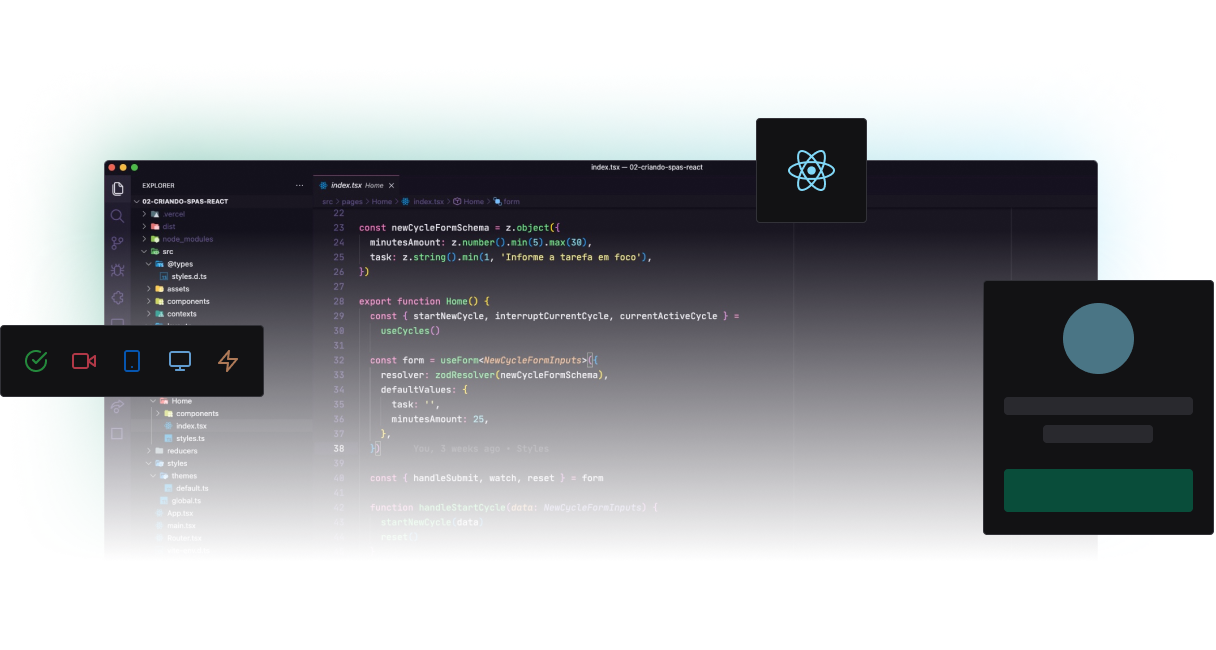
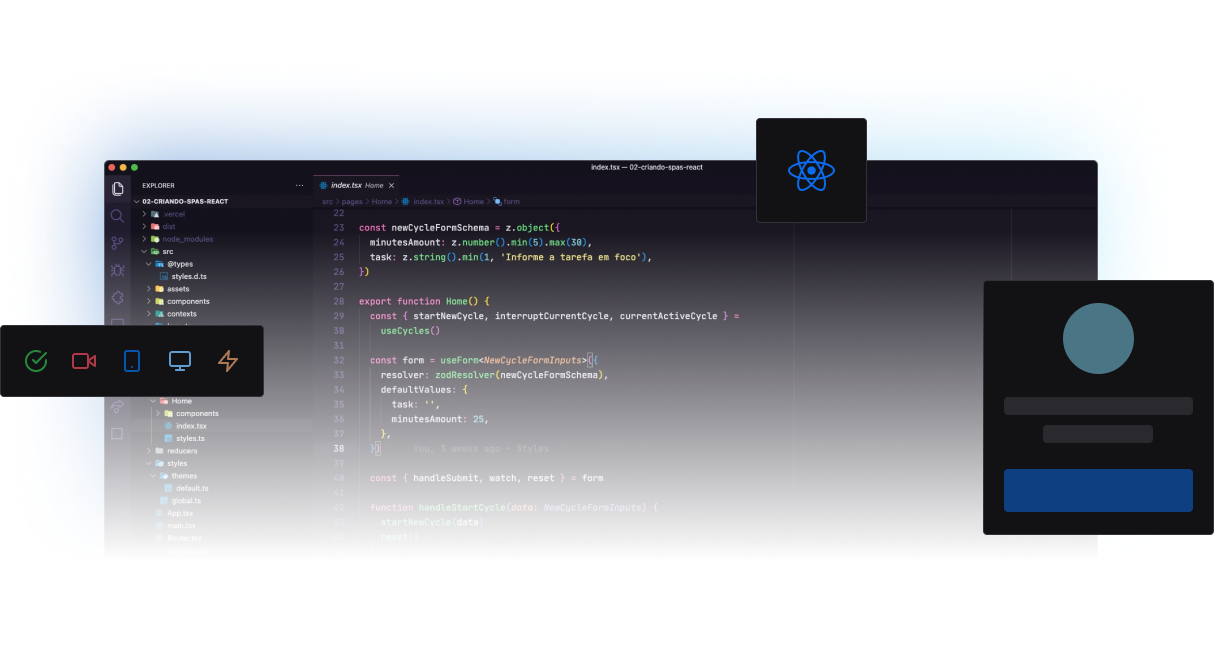
feat: modificando as cores

Changed region(s): [[0.8125, 0.7077, 1.0, 0.8], [0.6562, 0.2154, 0.6875, 0.3077]]

diff --git a/src/components/Video.tsx b/src/components/Video.tsx
@@ -25,7 +25,7 @@ export function Video(props: VideoProps) {
   if (!data || !data.lesson) {
     return (
       <div className="h-[80vh] flex flex-1 items-center justify-center">
-        <CircleNotch size={40} color="#00875F" className="animate-spin max-h-[60vh]" />
+        <CircleNotch size={40} color="#0d58bb" className="animate-spin max-h-[60vh]" />
       </div>
     );
   }
@@ -52,7 +52,7 @@ export function Video(props: VideoProps) {
                 <img
                   src={data.lesson.teacher.avatarURL}
                   alt=""
-                  className="h-16 w-16 rounded-full border-2 border-blue-500"
+                  className="h-16 w-16 rounded-full border-2 border-cyan-500"
                 />
 
                 <div className="leading-relaxed">
@@ -66,7 +66,7 @@ export function Video(props: VideoProps) {
           <div className="flex flex-col gap-4">
             <a
               href="#"
-              className="p-4 bg-green-500 text-sm font-bold uppercase rounded flex items-center gap-[10px] hover:bg-green-700 transition-colors"
+              className="p-4 bg-blue-500 text-sm font-bold uppercase rounded flex items-center gap-[10px] hover:bg-blue-700 transition-colors"
             >
               <DiscordLogo size={24} />
               Comunidade no Discord
@@ -74,7 +74,7 @@ export function Video(props: VideoProps) {
 
             <a
               href="#"
-              className="p-4 text-sm font-bold uppercase text-blue-500 border border-blue-500 rounded flex items-center justify-center gap-[10px] hover:bg-blue-500 hover:text-gray-900 transition-colors"
+              className="p-4 text-sm font-bold uppercase text-cyan-500 border border-cyan-500 rounded flex items-center justify-center gap-[10px] hover:bg-cyan-500 hover:text-gray-900 transition-colors"
             >
               <Lightning size={24} />
               Acesse o desafio
@@ -86,7 +86,7 @@ export function Video(props: VideoProps) {
             href=""
             className="bg-gray-700 rounded overflow-hidden flex items-start gap-6 hover:bg-gray-600 transition-colors"
           >
-            <div className="bg-green-700 h-full p-6 flex items-center">
+            <div className="bg-blue-700 h-full p-6 flex items-center">
               <FileArrowDown size={40} />
             </div>
             <div className="py-6 leading-relaxed">
@@ -104,7 +104,7 @@ export function Video(props: VideoProps) {
             href=""
             className="bg-gray-700 rounded overflow-hidden flex items-start gap-6 hover:bg-gray-600 transition-colors"
           >
-            <div className="bg-green-700 h-full p-6 flex items-center">
+            <div className="bg-blue-700 h-full p-6 flex items-center">
               <Image size={40} />
             </div>
             <div className="py-6 leading-relaxed">

diff --git a/src/pages/Subscribe.tsx b/src/pages/Subscribe.tsx
@@ -35,8 +35,8 @@ export function Subscribe() {
             <img src={logoIgniteLab} alt="" />
 
             <h1 className="text-[2.5rem] leading-tight mt-8">
-              Construa uma <strong className="text-blue-500">aplicação completa</strong>, do zero,
-              com <strong className="text-blue-500">React JS</strong>
+              Construa uma <strong className="text-cyan-500">aplicação completa</strong>, do zero,
+              com <strong className="text-cyan-500">React JS</strong>
             </h1>
             <p className="text-gray-200 mt-6">
               Em apenas uma semana você vai dominar na prática uma das tecnologias mais utilizadas e
@@ -51,20 +51,20 @@ export function Subscribe() {
               <input
                 type="text"
                 placeholder="Seu nome completo"
-                className="bg-gray-900 h-14 px-5 rounded outline-none border-2 border-transparent focus:border-green-500 "
+                className="bg-gray-900 h-14 px-5 rounded outline-none border-2 border-transparent focus:border-blue-500 "
                 onChange={event => setName(event.target.value)}
               />
               <input
                 type="email"
                 placeholder="Digite seu e-mail"
-                className="bg-gray-900 h-14 px-5 rounded outline-none border-2 border-transparent focus:border-green-500"
+                className="bg-gray-900 h-14 px-5 rounded outline-none border-2 border-transparent focus:border-blue-500"
                 onChange={event => setEmail(event.target.value)}
               />
 
               <button
                 type="submit"
                 disabled={loading}
-                className="bg-green-500 text-white text-sm font-bold uppercase py-4 mt-4 rounded hover:bg-green-700 transition-colors disabled:opacity-50"
+                className="bg-blue-500 text-white text-sm font-bold uppercase py-4 mt-4 rounded hover:bg-blue-700 transition-colors disabled:opacity-50"
               >
                 Garantir minha vaga
               </button>

diff --git a/src/components/Lesson.tsx b/src/components/Lesson.tsx
@@ -29,9 +29,9 @@ export function Lesson(props: LessonProps) {
 
       <div
         className={classnames(
-          'p-4 border border-gray-500 rounded mt-2 group-hover:border-green-500',
+          'p-4 border border-gray-500 rounded mt-2 group-hover:border-blue-500',
           {
-            'bg-green-500': isActiveLesson
+            'bg-blue-500': isActiveLesson
           }
         )}
       >
@@ -40,7 +40,7 @@ export function Lesson(props: LessonProps) {
             <span
               className={classnames('text-sm font-semibold flex items-center gap-2', {
                 'text-white': isActiveLesson,
-                'text-blue-500': !isActiveLesson
+                'text-cyan-500': !isActiveLesson
               })}
             >
               <CheckCircle size={20} />

diff --git a/src/pages/PageNotFound.tsx b/src/pages/PageNotFound.tsx
@@ -17,7 +17,7 @@ export function PageNotFound() {
 
         <Link
           to="/"
-          className="mt-8 text-sm uppercase font-bold p-4 rounded bg-green-500 hover:bg-green-700 transition-colors flex items-center justify-center gap-[10px]"
+          className="mt-8 text-sm uppercase font-bold p-4 rounded bg-blue-500 hover:bg-blue-700 transition-colors flex items-center justify-center gap-[10px]"
         >
           <CaretCircleLeft size={24} />
           Retorne à página inicial

diff --git a/tailwind.config.js b/tailwind.config.js
@@ -11,11 +11,14 @@ module.exports = {
       },
       colors: {
         green: {
-          300: '#00B37E',
-          500: '#00875F',
-          700: '#015F43'
+          300: '#00B37E'
         },
         blue: {
+          300: '#0a6bec',
+          500: '#0d58bb',
+          700: '#09479a'
+        },
+        cyan: {
           500: '#81D8F7'
         },
         orange: {

diff --git a/src/components/Footer.tsx b/src/components/Footer.tsx
@@ -16,7 +16,7 @@ export function Footer() {
             <a
               href="https://github.com/sampaiocode"
               target="_blank"
-              className="text-green-300 hover:text-green-500 transition-colors"
+              className="text-blue-300 hover:text-blue-500 transition-colors"
             >
               sampaiocode
             </a>
